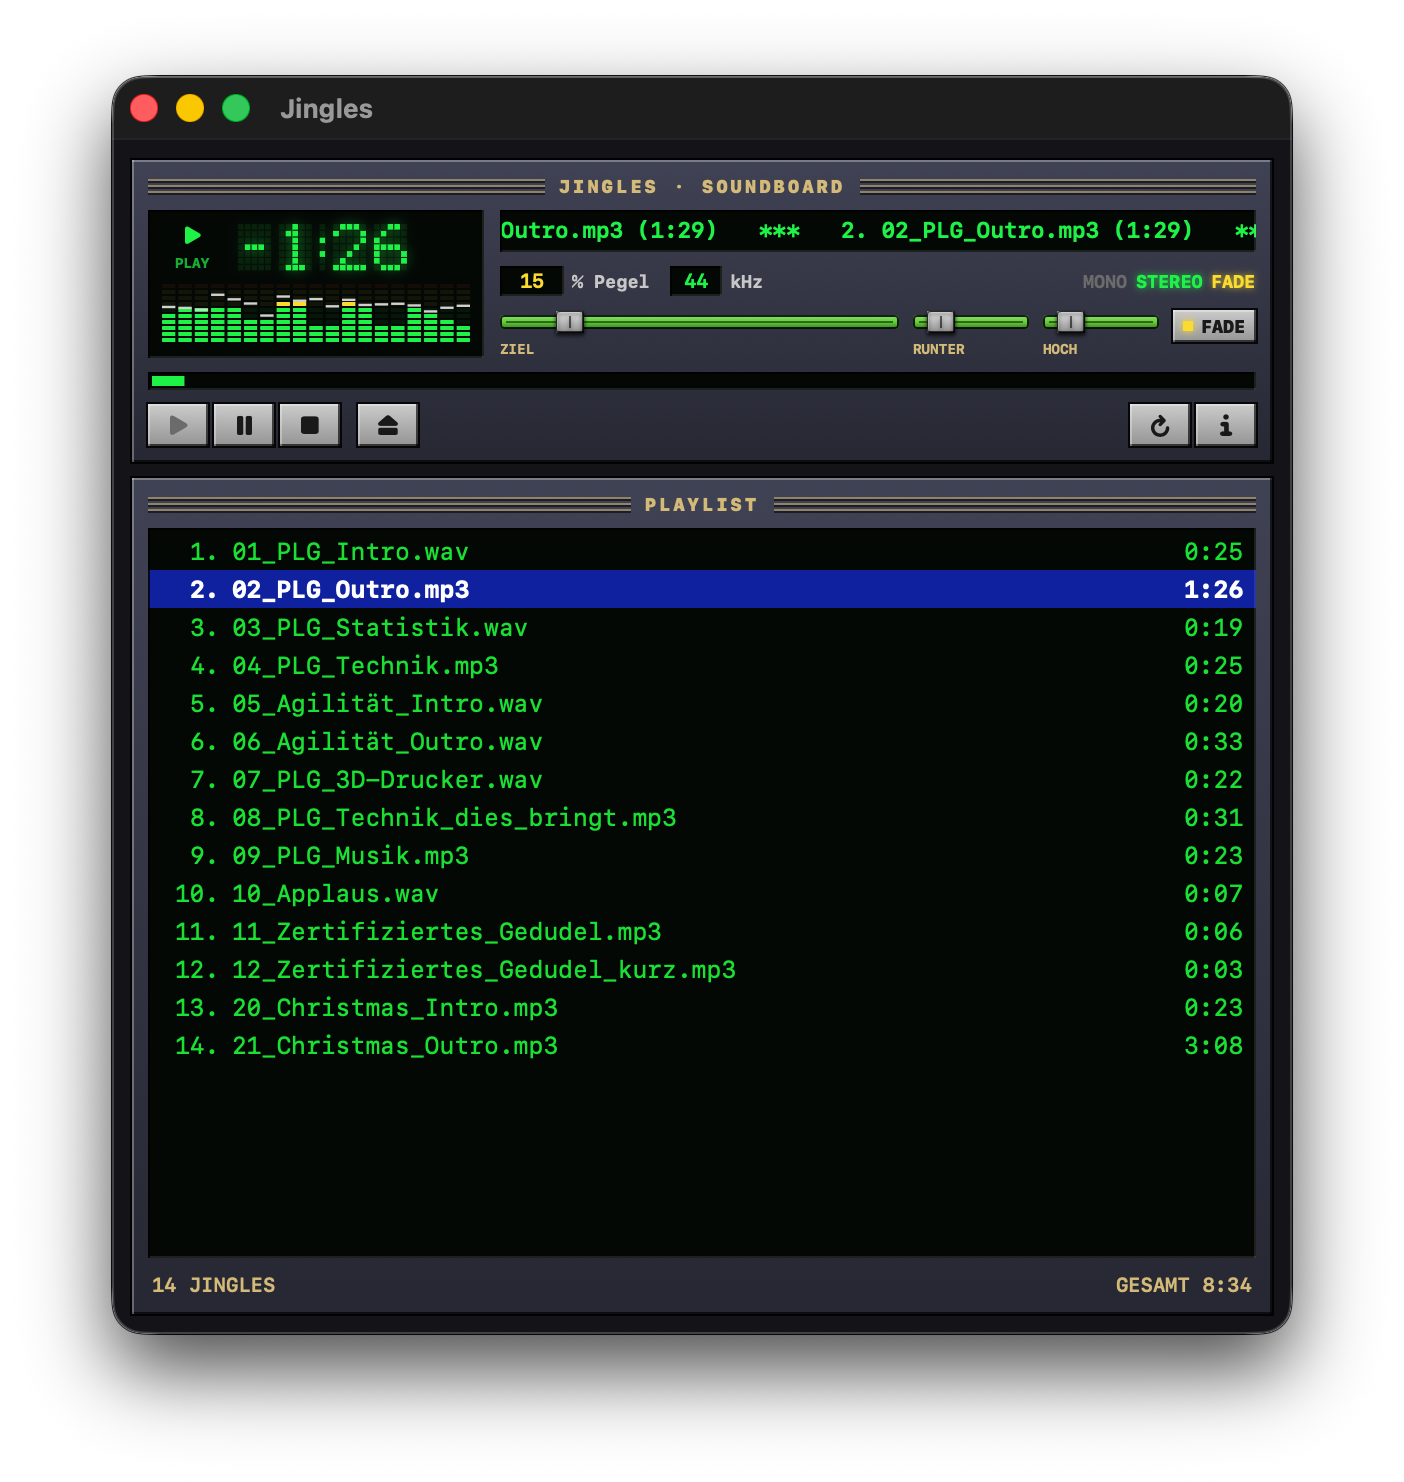
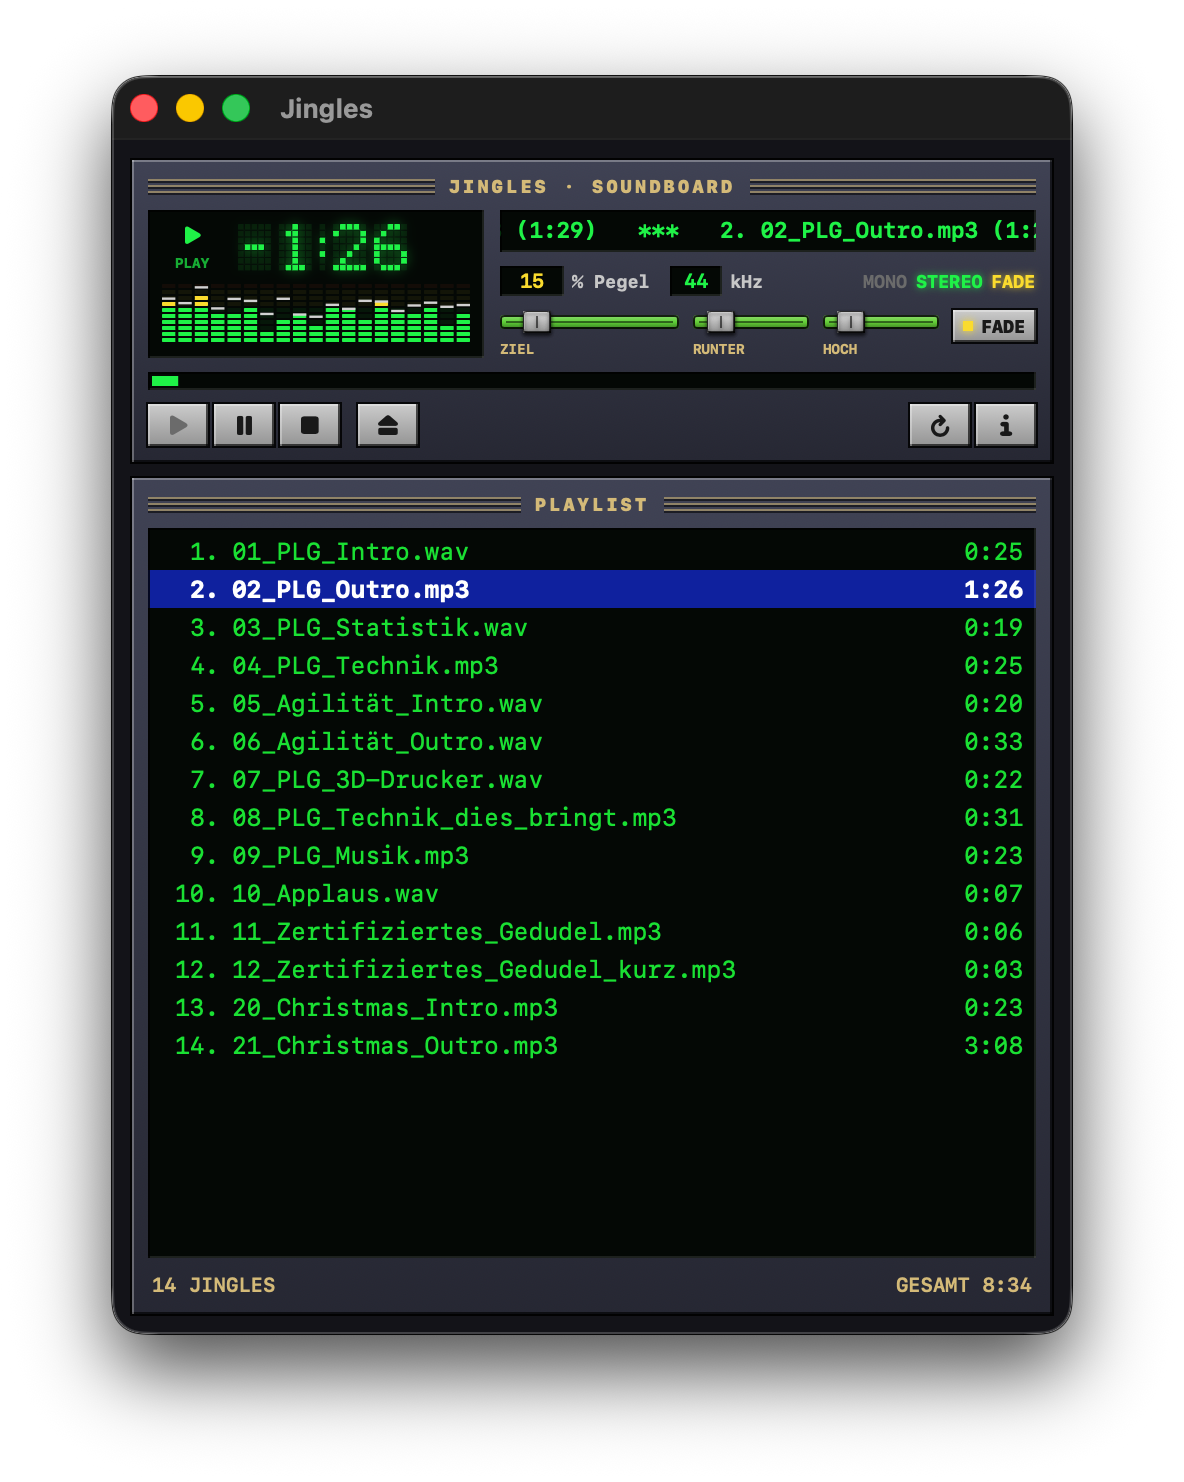
Make the Retro appearance narrower for Jingles 0.5.7
Retro now has a fixed width of 480 points, like the compact players it
borrows from. The window follows the content size only in Retro, so it
shrinks when switching from Standard or Studio and grows back afterwards.

diff --git a/Sources/JinglesApp.swift b/Sources/JinglesApp.swift
@@ -38,7 +38,8 @@ struct JinglesApp: App {
                 .preferredColorScheme(appearance == .standard ? nil : .dark)
         }
         .defaultSize(width: 620, height: 470)
-        .windowResizability(.contentMinSize)
+        // Retro has a fixed width like the old players, so the window follows its content size.
+        .windowResizability(appearance == .retro ? .contentSize : .contentMinSize)
         .commands {
             CommandGroup(after: .toolbar) {
                 Divider()

diff --git a/Sources/RetroPlayer.swift b/Sources/RetroPlayer.swift
@@ -29,7 +29,8 @@ struct RetroPlayerView: View {
             statusLines
         }
         .padding(10)
-        .frame(minWidth: 560, minHeight: 440)
+        .frame(width: 480)
+        .frame(minHeight: 440)
         .background(RetroPalette.window)
     }
 

diff --git a/README.md b/README.md
@@ -4,11 +4,11 @@ Jingles ist ein macOS-Soundboard für Podcasts und Live-Aufnahmen. Spiele WAV- u
 
 ## Download und Installation
 
-**[Jingles 0.5.6 für Apple-Chips herunterladen](https://github.com/maikpurrmann/jingles/releases/download/v0.5.6/Jingles-0.5.6-macos-arm64.zip)** · [Versionshinweise](https://github.com/maikpurrmann/jingles/releases/tag/v0.5.6)
+**[Jingles 0.5.7 für Apple-Chips herunterladen](https://github.com/maikpurrmann/jingles/releases/download/v0.5.7/Jingles-0.5.7-macos-arm64.zip)** · [Versionshinweise](https://github.com/maikpurrmann/jingles/releases/tag/v0.5.7)
 
 | Standard | Studio | Retro |
 | --- | --- | --- |
-| <img src="docs/jingles-app-wiedergabe.png" alt="Standardansicht mit laufendem Outro, türkiser Wellenform und Restzeitanzeige." width="250"> | <img src="docs/jingles-studio-wiedergabe.png" alt="Studio-Ansicht mit Holzrahmen, laufendem Intro, bernsteinfarbener Restzeit und drei Fade-Drehreglern." width="286"> | <img src="docs/jingles-retro-wiedergabe.png" alt="Retro-Ansicht mit grüner Pixel-Restzeit, Pegelbalken, Lauftext, gelb abgesenktem Pegel und grüner Playlist auf Schwarz." width="286"> |
+| <img src="docs/jingles-app-wiedergabe.png" alt="Standardansicht mit laufendem Outro, türkiser Wellenform und Restzeitanzeige." width="250"> | <img src="docs/jingles-studio-wiedergabe.png" alt="Studio-Ansicht mit Holzrahmen, laufendem Intro, bernsteinfarbener Restzeit und drei Fade-Drehreglern." width="286"> | <img src="docs/jingles-retro-wiedergabe.png" alt="Retro-Ansicht mit grüner Pixel-Restzeit, Pegelbalken, Lauftext, gelb abgesenktem Pegel und grüner Playlist auf Schwarz." width="241"> |
 
 Voraussetzung für den fertigen Download ist ein Mac mit Apple-Chip und macOS 13 Ventura oder neuer.
 
@@ -41,7 +41,7 @@ Jingles lässt sich direkt im App-Fenster bedienen. Für Aufnahmen mit dem Strea
 
 ### Plugin einrichten
 
-Du brauchst Jingles ab **0.5.0** und Stream Deck ab **7.1**. Lade das [Jingles-Plugin für Stream Deck](https://github.com/maikpurrmann/jingles/releases/download/v0.5.6/Jingles.streamDeckPlugin) und öffne die Datei per Doppelklick.
+Du brauchst Jingles ab **0.5.0** und Stream Deck ab **7.1**. Lade das [Jingles-Plugin für Stream Deck](https://github.com/maikpurrmann/jingles/releases/download/v0.5.7/Jingles.streamDeckPlugin) und öffne die Datei per Doppelklick.
 
 1. Jingles öffnen und den Einspielerordner wählen.
 2. Im Stream Deck die Aktion **Jingles → Jingle** auf einen Tastenplatz ziehen. In den Einstellungen der Taste unter **Einspieler** die gewünschte Datei wählen. Für weitere Einspieler kannst du jeweils eine weitere Taste belegen.
@@ -95,7 +95,7 @@ Ab Jingles 0.5.3 liefert `http://127.0.0.1:17639/obs/jingle` eine transparente R
 
 Wenn der Countdown nur im Gesprächsbild sichtbar sein soll, lege in OBS eine Szene **Ninja** an und binde die Aufnahmeszene als Szenenquelle ein. Füge darüber die Browserquelle hinzu. Wähle in den Einstellungen der virtuellen Kamera **Szene → Ninja**. Die OBS-Aufnahme verwendet die normale Programmszene. VDO.Ninja verwendet **OBS Virtual Camera** als Kamera. [OBS zur virtuellen Kamera](https://obsproject.com/kb/virtual-camera-guide)
 
-Für die **Aufnahmezeit** lade das [OBS-Paket](https://github.com/maikpurrmann/jingles/releases/download/v0.5.6/Jingles-OBS-Aufnahmezeit.zip) und entpacke `RecordingTimer.lua` und `RecordingTimer.html` gemeinsam in einem beschreibbaren Ordner. Lade die Lua-Datei über **Werkzeuge → Skripte**. Füge die HTML-Datei als lokale Browserquelle in **Ninja** hinzu. Verwende für beide Einblendungen dieselben Quellabmessungen und richte die Aufnahmezeit am rechten Bildrand aus. Die Uhr läuft direkt in OBS.
+Für die **Aufnahmezeit** lade das [OBS-Paket](https://github.com/maikpurrmann/jingles/releases/download/v0.5.7/Jingles-OBS-Aufnahmezeit.zip) und entpacke `RecordingTimer.lua` und `RecordingTimer.html` gemeinsam in einem beschreibbaren Ordner. Lade die Lua-Datei über **Werkzeuge → Skripte**. Füge die HTML-Datei als lokale Browserquelle in **Ninja** hinzu. Verwende für beide Einblendungen dieselben Quellabmessungen und richte die Aufnahmezeit am rechten Bildrand aus. Die Uhr läuft direkt in OBS.
 
 ## Aus dem Quellcode bauen
 
